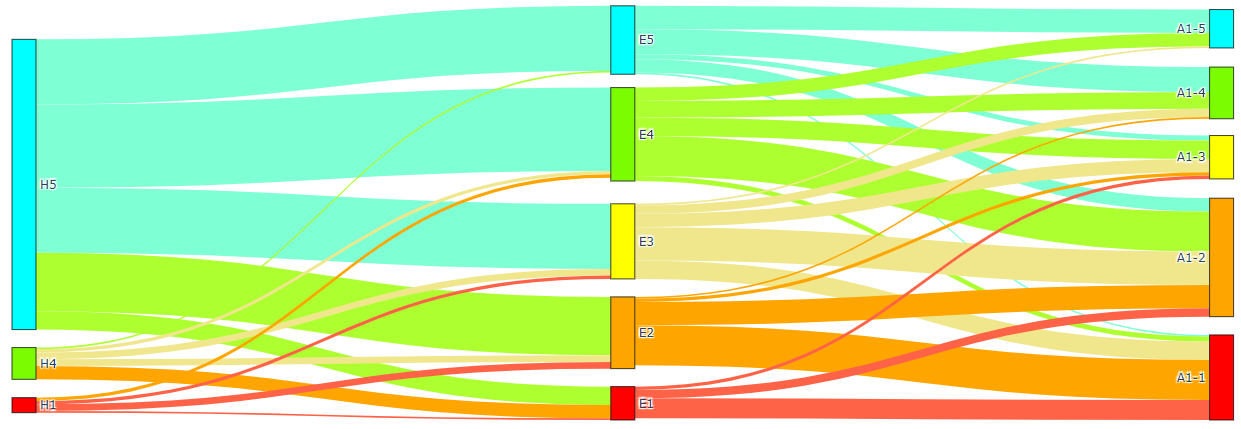
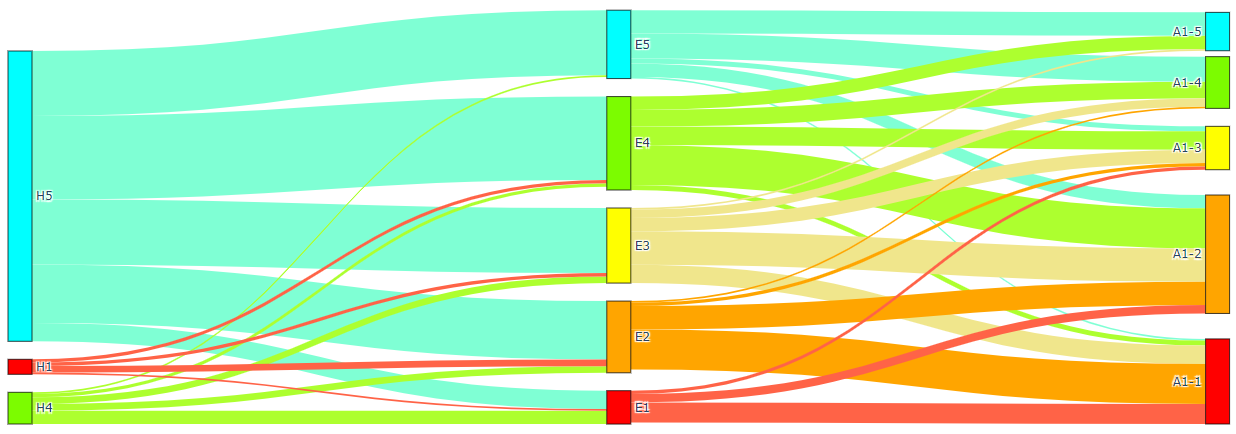
i did tdk finaly

diff --git a/TDK dolgozat/TDK_doc.tex b/TDK dolgozat/TDK_doc.tex
@@ -163,7 +163,7 @@ A felderítő elemzés célja az adatok ábrázolása egyszerűen és gyorsan, a
 \subsection{Általános ábrák}
 
 \subsection{Folyamatábrák (Sankey-diagramok)}
-A Sankey-diagramok olyan folyamatábrák, amelyekben az ábrázolt folyamok szélessége arányos a megfelelő folyamértékekkel. Ezáltal könnyen ábrázolhatóak adott állapotok közötti vándorlások, illetve ezek egymással vett aránya. Egy hátránya van, hogy egy ábrán csak két osztálycsoport között olvashatjuk le az áramlásokat. Ha egy harmadik osztálycsoportot is belehelyezünk, és csak a másodikkal kötjük össze, akkor az első és a harmadik közötti vándorlások nem jelennek meg az ábrán. Emiatt lesz némi redundancia az alább ismertetett ábrákban.\\
+A Sankey-diagramok olyan folyamatábrák, amelyekben az ábrázolt folyamok szélessége arányos a megfelelő folyamértékekkel. Ezáltal könnyen ábrázolhatóak adott állapotok közötti folyamok, illetve ezek egymással vett aránya. Egy hátránya van, hogy egy ábrán csak két osztálycsoport között olvashatjuk le az áramlásokat. Ha egy harmadik osztálycsoportot is belehelyezünk, és csak a másodikkal kötjük össze, akkor az első és a harmadik közötti vándorlások nem jelennek meg rajta. Emiatt lesz némi redundancia a lentebb ismertetett ábrákban.\\
 Dolgozatunkban hat opciót vizsgáltunk a két évben az elérhető adatoknak megfelelően. Mindkét esetben az állapotok a hallgatók valamely eredményét jelentették, például felvételi pontszámot.
 \begin{itemize}
 
@@ -189,63 +189,139 @@ Az első két esetben csak a 2019-es évfolyamról volt adat. Az utolsó esetben
 
 A matematikai teszt részeinek eredményein és az \textit{A1}, \textit{A2} jegyeken kívül a többi változó folytonos volt, így szükség volt ezek diszkretizálására. Öt-öt osztály lett létrehozva minden esetben, de nem feltétlenül került mindegyikbe hallgató. Az átlagok kerekítve lettek, a felvételi, kognitív teszt és nulladik zh pontszámok ekvidisztáns módon lettek felosztva.
 
-A \textit{felvételi pontszám - nulladik ZH - kognitív teszt eredmény} változatban a nulladik zh és a teszt eredményei nullától az elérhető pontszámig lettek felosztva 20\%-os lépésközökkel. A többi változat a kutatás későbbi szakaszában készült, így a két mutató a terjedelmük szerint lett felosztva, nem az elérhető pontszám alapján.
+A \textit{felvételi pontszám - nulladik ZH - kognitív teszt eredmény} változatban a nulladik zh és a teszt eredményei nullától az elérhető pontszámig lettek felosztva 20\%-os lépésközökkel. Továbbá a felvételi pontszám a legalacsonyabb értéktől 500 pontig. A többi változat a kutatás későbbi szakaszában készült, így a folytonos mutatók az értékkészletük terjedelme szerint lettek felosztva, nem az elérhető pontszámok alapján.
 
-Ezután \textit{for ciklus} használatával elkészültek a tranzíciós mátrixok. Egy ilyen mátrix \textit{i}-edik sorának \textit{j}-edik eleme azt mutatta, hogy az egyik változó \textit{i}-edik osztályában hány olyan hallgató volt, aki a másik változó \textit{j}-edik osztályába került. Ez a folyamok szélességének megadásához volt szükséges.
+Ezután \textit{for ciklus} használatával elkészültek a tranzíciós mátrixok. Ezen mátrixok \textit{i}-edik sorának \textit{j}-edik eleme azt mutatta, hogy az egyik változó \textit{i}-edik osztályában hány olyan hallgató volt, aki a másik változó \textit{j}-edik osztályába került. Ez a folyamok szélességének megadásához volt szükséges.
 
-A \textit{plotly.graph\_objects} könyvtár \textit{go.Sankey} függvényével lettek elkészítve egyenként az ábrák. Minden esetben meg kellett adni számozva a kiinduló és beérkező állapotokat, így a középső csoportok mindkét listában szerepeltek. A program index alapján kapcsolta össze a két listából az állapotokat, így kellett egy harmadik lista, amelynek a megfelelő indexű eleme a két állapot közötti folyam mérete. Ezen kívül a folyamokhoz és magukhoz az állapotokhoz is színeket kellett még rendelni, ismét egy-egy listában, figyelve az indexeket. 
+A \textit{plotly.graph\_objects} könyvtár \textit{go.Sankey} függvényével lettek elkészítve egyenként az ábrák. Minden esetben meg kellett adni számozva a kiinduló és beérkező állapotokat, így a középső csoportok mindkét listában szerepeltek. A program index alapján kapcsolta össze a két listából az állapotokat, továbbá kellett egy harmadik lista, amelynek a megfelelő indexű eleme a két állapot közötti folyam mérete. Ezen kívül a folyamokhoz és magukhoz az állapotokhoz is színeket kellett még rendelni, ismét egy-egy listában, figyelve az indexeket. 
 
-Végül a kirajzolódott ábrát kellett kézileg igazítani, ugyanis az eredmények csoportjai nem feltétlenül álltak megfelelő sorrendben a függőleges tengelyen, illetve azokban az esetekben, amikor nem volt mind az öt osztályban hallgató, egy-egy csoport átcsúszott egy másik eredmény oszlopába. Ezek nem okoztak gondot, ugyanis a csoport mozgatásával a hozzátartozó sávok automatikusan mozogtak együtt.
+Végül a kirajzolódott ábrát kellett még kézileg igazítani, ugyanis az eredmények csoportjai nem feltétlenül álltak megfelelő sorrendben a függőleges tengelyen, illetve azokban az esetekben, amikor nem volt mind az öt osztályban hallgató, egy-egy csoport átcsúszott egy másik eredmény oszlopába. Ezek nem okoztak gondot, ugyanis a csoport mozgatásával a hozzátartozó sávok automatikusan mozogtak együtt.
 
 %IDE BE KELL ILLESZTENI A teszt-a1-a2 ábrát
-
+\begin{figure}[H]
+\centering
+\includegraphics[scale=0.573]{kepek/teszt-a1-a2.png}
+\caption{2019. Kognitív teszt eredmény - \textit{A1} jegy - \textit{A2} jegy}
+\label{fig:teszt-a1-a2}
+\end{figure}
 
 A 2021-es gólyák a kutatás idejében még nem vehették fel az \textit{A2} tárgyat, így értelemszerűen csak a 2019-es évfolyamra készült ez az ábra.
 
-Az ábrán rögtön látható, hogy a kognitív tesztben mindenki 20\% felett teljesített, de nagyon kevés hallgatónak sikerült 80\%-nál magasabb eredményt elérni. Legtöbben 40\% és 60\% közötti pontszámot szereztek, a második legnagyobb osztály a 60-80\%-os.
+Az ábrán rögtön látható, hogy a kognitív tesztben mindenki 20\% felett teljesített, de nagyon kevés hallgatónak sikerült 80\%-nál magasabb eredményt elérni. Ehhez képest az tantárgyakon elért jegyek eloszlása egyenletesebb. 
 
-Ehhez képest az \textit{A1} tárgyon elért jegyek eloszlása egyenletesebb. Néhány hallgatónak nem sikerült elvégezni a tárgyat, nagyobb részük kettest vagy hármast szerzett, és körülbelül a harmaduk 45/55 arányban négyest és ötöst szereztek.
+Látható, hogy akik a teszten gyengébben teljesítettek, azok a későbbiekben többnyire rosszabb jegyeket szereztek, de nem kevesen javítottak is. A jobban teljesítők szintén tartották általában a szintet, de itt sem elhanyagolható azok száma, aki rontott. Meglepő a kettesről négyes-ötösre javítók és az ötösről rosszabb jegyekre rontó hallgatók aránya a teljes viszonylatban.
 
-A folyamokat illetően, azok, akiknek nem sikerült a tárgy, a kettes és a hármas tesztosztályban voltak, azaz közülük valakinek nem sikerült 40\%-ot elérni, de egyikőjük sem teljesített 60\%-nál jobban. A tesztet legjobban megírok pedig többségben ötöst vagy négyest szereztek, azonban a négyes tesztosztályból több hallgató is csak hármast tudott szerezni. A hármas osztályból minden jegyhez megy folyam, a legtöbb ketteshez és hármashoz, illetve körülbelül a negyede egyenletesen oszlik el a négyes és ötös között. Egy érdekes eset van, a kettes tesztosztályból valakinek sikerült ötöst szerezni a tárgyból. Ennek ellenére ebből az osztályból a hallgatók kétharmada legfeljebb kettest ért el.
-
-Ezekből sejthető, hogy egy hallgató teljesítménye a teszt során összefügg a további teljesítményével, de lehet jelentős romlás és javulás is.
-
-Az \textit{A2} tárgy jegyeinek eloszlása ismét más, több ötös és négyes, kevesebb hármas és körülbelül ugyanannyi kettes lett, és egy hallgatónak nem sikerült elvégezni. Érdekes, hogy az első körben kettest szerző hallgatók majdnem harmada javított négyesre vagy ötösre, a négyest szerző hallgatóknak pedig majdnem a fele kettesre rontotta. Hármasból is sokan javítottak, körülbelül a negyedük továbbra is hármast szerzett, viszont több, mint harmaduk rontott. Ötöst szerzőkből hatan kettesre rontottak (kb. 13\%).
-
+Összességében sejthető, hogy egy hallgató teljesítménye a teszt során összefügg a további teljesítményével, de viszonylag sok esetben van jelentős romlás, illetve javulás.
 
 %IDE BE KELL ILLESZTENI A matekrészeksankey ábrát
+\begin{figure}[H]
+\centering
+\includegraphics[scale=0.573]{kepek/matekrészeksankey.png}
+\caption{2019. Matematikai teszt 1. blokk - 2. blokk - 3. blokk helyes válaszok száma}
+\label{fig:matekrészeksankey}
+\end{figure}
+
+A teszt matematikai részének a komplexitása a blokkonként nőtt, így érdekes volt megvizsgálni, hogyan teljesítettek a hallgatók, és hogyan viszonyul egymáshoz a helyes válaszaik száma a különböző blokkokban.
+
+Rögtön látszik, hogy az első blokkban a hibátlan (négyes) osztály a legnagyobb, és a rosszabb eredmények száma csökken. Ez várható, hiszen itt alapismeretek voltak felmérve. A második és harmadik blokknál teljesen más a kép, a közepes osztályok körülbelül azonosak, a szélsők pedig kicsik, jobban hasonlít a normális eloszlásra.
+
+A folyamok egészen változatosak. Az ábra közepén erősen szétoszlanak, de a széleihez közelítve kisebb trendek megfigyelhetők. Például a második blokkban minden kérdésre helyesen válaszolt hallgatók az első blokkban is többnyire szinte csak helyesen válaszoltak.
+
+%IDE BE KELL ILLESZTENI A 2019_old_felvi_0zh_teszt ábrát
+\begin{figure}[H]
+\centering
+\includegraphics[scale=0.573]{kepek/2019_old_felvi_0zh_teszt.png}
+\caption{2019. Felvételi - 0. zh - kognitív teszt pontszámok}
+\label{fig:2019_old_felvi_0zh_teszt}
+\end{figure}
+
+Az ábrán főleg a 0. zh-ból a tesztbe menő folyamokon látszik egy erős tendencia. Igaz itt még a régebbi, teljes szerezhető pontszám szerinti felosztás van, így csak négy osztály jött létre, de nagyon kevés többosztálynyi ugrás van, tehát feltehető, hogy erősen összefügg a 0. zh és a kognitív teszt eredménye.
+
+Ami a felvételi és 0. zh pontszámok kapcsolatait illeti, a folyamok egészen szerteágazóak, de itt is fennáll, hogy a közel hasonló teljesítmények között szélesebbek, mint a nagyobb különbségek esetén.
+
+%IDE BE KELL ILLESZTENI A 2021_old_felvi_0zh_teszt ábrát
+\begin{figure}[H]
+\centering
+\includegraphics[scale=0.573]{kepek/2021_old_felvi_0zh_teszt.png}
+\caption{2021. Felvételi - 0. zh - kognitív teszt pontszámok}
+\label{fig:2021_old_felvi_0zh_teszt}
+\end{figure}
+
+Annak ellenére, hogy a tesztes oszlop a 2019-es tesztes oszlopra hasonlít, csak fejjel lefelé, ez a valós eloszlás. Valóban, míg 2019-ben nem volt 20\% alatti eredmény, itt fordítva, nem volt 80\% fölötti. A felvételi pontszámok arányai romlottak, arányosan nagyobbak lettek az alsó osztályok. Ellenkezőleg a 0. zh eredményei javultak, nagyobbak a magasabb pontszámhoz tartozó osztályok arányai. 
+
+Ami a folyamokat illeti, többnyire hasonlóak a tendenciák, bár érdekes, hogy akiknek a legrosszabb lett a 0. zh, a kognitív teszt közepesen ment. Itt is mondható, hogy a jobban teljesítő hallgatók többnyire mindenből jól teljesítettek, illetve a gyengébbek között ritkábbak voltak a jobb eredmények. Ennek ellenére itt is szerteágazóak a folyamok, tehát összefüggés van, de nem nagyon erős.
 
 
+%IDE BE KELL ILLESZTENI A 2019_felvi_teszt_atlag_kumatlag ábrát
+\begin{figure}[H]
+\centering
+\includegraphics[scale=0.6]{kepek/2019_felvi_teszt_atlag_kumatlag.png}
+\caption{2019. Felvételi - kognitív teszt pontszám - első féléves átlag - kumulált átlag}
+\label{fig:2019_felvi_teszt_atlag_kumatlag}
+\end{figure}
 
-%IDE BE KELL ILLESZTENI A sankey2019_old ábrát
+Ezen az ábrán már közvetlenül láthatóak a felvételi és kognitív teszt eredményeinek viszonyai, azonban itt már az értékkészlet van felosztva ekvidisztánsan. Ez abban is megnyilvánul, hogy a teszt pontszámosztályainak mások az arányai. 
 
+Két előnye volt az értékkészlet szerinti osztályozásnak: gyorsabb volt (egy függvényre volt csak szükség), illetve így az eredmények egymáshoz képest való relatív eloszlása jobban látszik. Míg a régebbi ábrán nagyon nagy a hármas osztály, mert a legtöbben 40-60\% körüli eredményeket értek el, itt az látszik, hogy a legjobb és legrosszabb dolgozatok pontszámai között, a terjedelem 20\%-ával lépkedve milyen a hallgatók eloszlása. Így az lesz valóban "középtájban", aki a többi hallgató pontszámához képest átlaghoz közeli pontszámot szerzett, nem pedig az a sok tanuló, aki 40-60\%-ot ért el.
 
-
-%IDE BE KELL ILLESZTENI A sankey2021_old ábrát
-
-
-
-%IDE BE KELL ILLESZTENI A sankey2019 ábrát
-
-
+Visszatérve az ábrára, a fentebb megfigyelt tendenciák lényegében ismétlődnek, jó eredményeket jók, rosszakat rosszak követik nagyrészt, de továbbra is változatosak a folyamok. Összefüggőség szempontjából jó jel, hogy a legjobb teszteredményt elérők négyesnél rosszabb átlagot nem értek el. Sőt nagyon sok hallgatónak volt négyes az átlaga az első félévben, ami nagyrészt kétfelé oszlott az idő elteltével, többen megtartották, de sokan rontottak hármasra, páran javítottak. A többi átlagértékkel hasonló a helyzet, inkább megmaradt, mint javult vagy romlott.
 
 %IDE BE KELL ILLESZTENI A 2021_felvi_teszt_atlag ábrát
 
+\begin{figure}[H]
+\centering
+\includegraphics[scale=0.6]{kepek/2021_felvi_teszt_atlag.png}
+\caption{2021. Felvételi - kognitív teszt pontszám - első féléves átlag}
+\label{fig:2021_felvi_teszt_atlag}
+\end{figure}
 
+A kutatás során ez az évfolyam még az első évében volt, így csak első féléves átlagokról volt adatunk. Ettől eltekintve 2019-hez képest több hallgatónak volt relatíve gyengébb a felvételi pontszáma, de ennek megfelelően többen is "javítottak". Az átlagok eloszlása romlott, aránylag több hármas és kevesebb négyes, illetve ötös lett. 
 
 %IDE BE KELL ILLESZTENI A 2019_felvi_teszt_a1_kumatl ábrát
+\begin{figure}[H]
+\centering
+\includegraphics[scale=0.5]{kepek/2019_felvi_teszt_a1_kumatl.png}
+\caption{2019. Felvételi - kognitív teszt pontszám - \textit{A1} jegy - kumulált átlag}
+\label{fig:2019_felvi_teszt_a1_kumatl}
+\end{figure}
 
-
+Az első két oszlop viszonyát már láttuk, az újdonság az \textit{A1} jegy az első féléves átlag helyett. Ettől függetlenül a tendenciák változatlanok, azok szereztek jobb, illetve rosszabb jegyet, akik rendszerint jobban, illetve rosszabban írták meg a tesztet. A trendet továbbra erősíti a jegyek és átlagok viszonya, bár értelemszerűen nem meglepő, hogy a két dolog összefügg.
 
 %IDE BE KELL ILLESZTENI A 2021_felvi_teszt_a1_atlag ábrát
+\begin{figure}[H]
+\centering
+\includegraphics[scale=0.5]{kepek/2021_felvi_teszt_a1_atlag.png}
+\caption{2021. Felvételi - kognitív teszt pontszám - \textit{A1} jegy - első féléves átlag}
+\label{fig:2021_felvi_teszt_a1_atlag}
+\end{figure}
 
-
-
+Szembetűnő, hogy az \textit{A1} jegyek valamilyen okból kifolyólag erősen romlottak. Míg 2019-ben nem bukott egy hallgató sem, itt majdnem a csoport negyedének nem sikerült elvégezni a tárgyat, sőt olyanoknak is, akik a legjobbak között voltak a teszt alapján. Továbbá a csoportnak több, mint a fele nem tudott kettesnél jobb jegyet szerezni. Fentebb láttuk, hogy az átlagok is romlottak, de ezek szerint nem olyan mértékben, mint az \textit{A1} jegyek. Érdekes, hogy az egyest és kettest szerzett hallgatók mégis nagyrészt hármas, sőt nem kevesen négyes átlagot szereztek. Ettől függetlenül a szokásos trendek itt is megmutatkoznak.
+ 
 %IDE BE KELL ILLESZTENI A 2019_hozott_erett_A1 ábrát
+\begin{figure}[H]
+\centering
+\includegraphics[scale=0.6]{kepek/2019_hozott_erett_A1.png}
+\caption{2019. Hozott és - érettségi pontszám - \textit{A1} jegy}
+\label{fig:2019_hozott_erett_A1}
+\end{figure}
+Ahogy később látni fogjuk, a modellek alapján a hozott és érettségi pontszámok erősen befolyásolták a jegyekre vett predikciókat, így utólag elkészült ez és a következő ábra.
 
+Jellegzetes, hogy a hallgatók nagy részének hasonló volt a hozott pontszáma, nagyon kevésnek volt kiemelkedő vagy relatíve kicsi. Aránylag kevés hallgatónak volt a legjobb pontszám 60\%-a alatt az érettségije. Még ezek mellett is megőrződött az a tendencia, hogy egy-egy hallgató nagyrészt hasonlóan teljesít a különböző mutatók alapján.
 
+Az ábráról leolvasható, hogy míg az utolsó oszlop felső felébe szinte csak kék és zöld folyamok érkeznek, mégis szerteágaznak, és például a legjobb érettségi pontszámokkal rendelkezők közül is többen kettest szereztek a tárgyból. 
 
 %IDE BE KELL ILLESZTENI A 2021_hozott_erett_A1 ábrát
+\begin{figure}[H]
+\centering
+\includegraphics[scale=0.6]{kepek/2021_hozott_erett_A1.png}
+\caption{2021. Hozott és - érettségi pontszám - \textit{A1} jegy}
+\label{fig:2021_hozott_erett_A1}
+\end{figure}
+
+Az ábrán rögtön szembetűnik egy meglepő dolog, a hozott pontszámoknál van egy óriási ötös osztály. Az értékeket leellenőrízve, tényleg nagyon sok esetben 180 és 190 között mozgott a hozott pontszám.
+
+Ehhez, és a 2019-es ábrához képest az érettségi pontszám viszont egészen egyenletesen oszlott el. Az ábra bal felétől eltekintve, a teljesítmény megmaradására vonatkozó tendencia igaz gyengébben, de ismét jelen van.
+
 
 \subsection{Klaszterezés}
 
